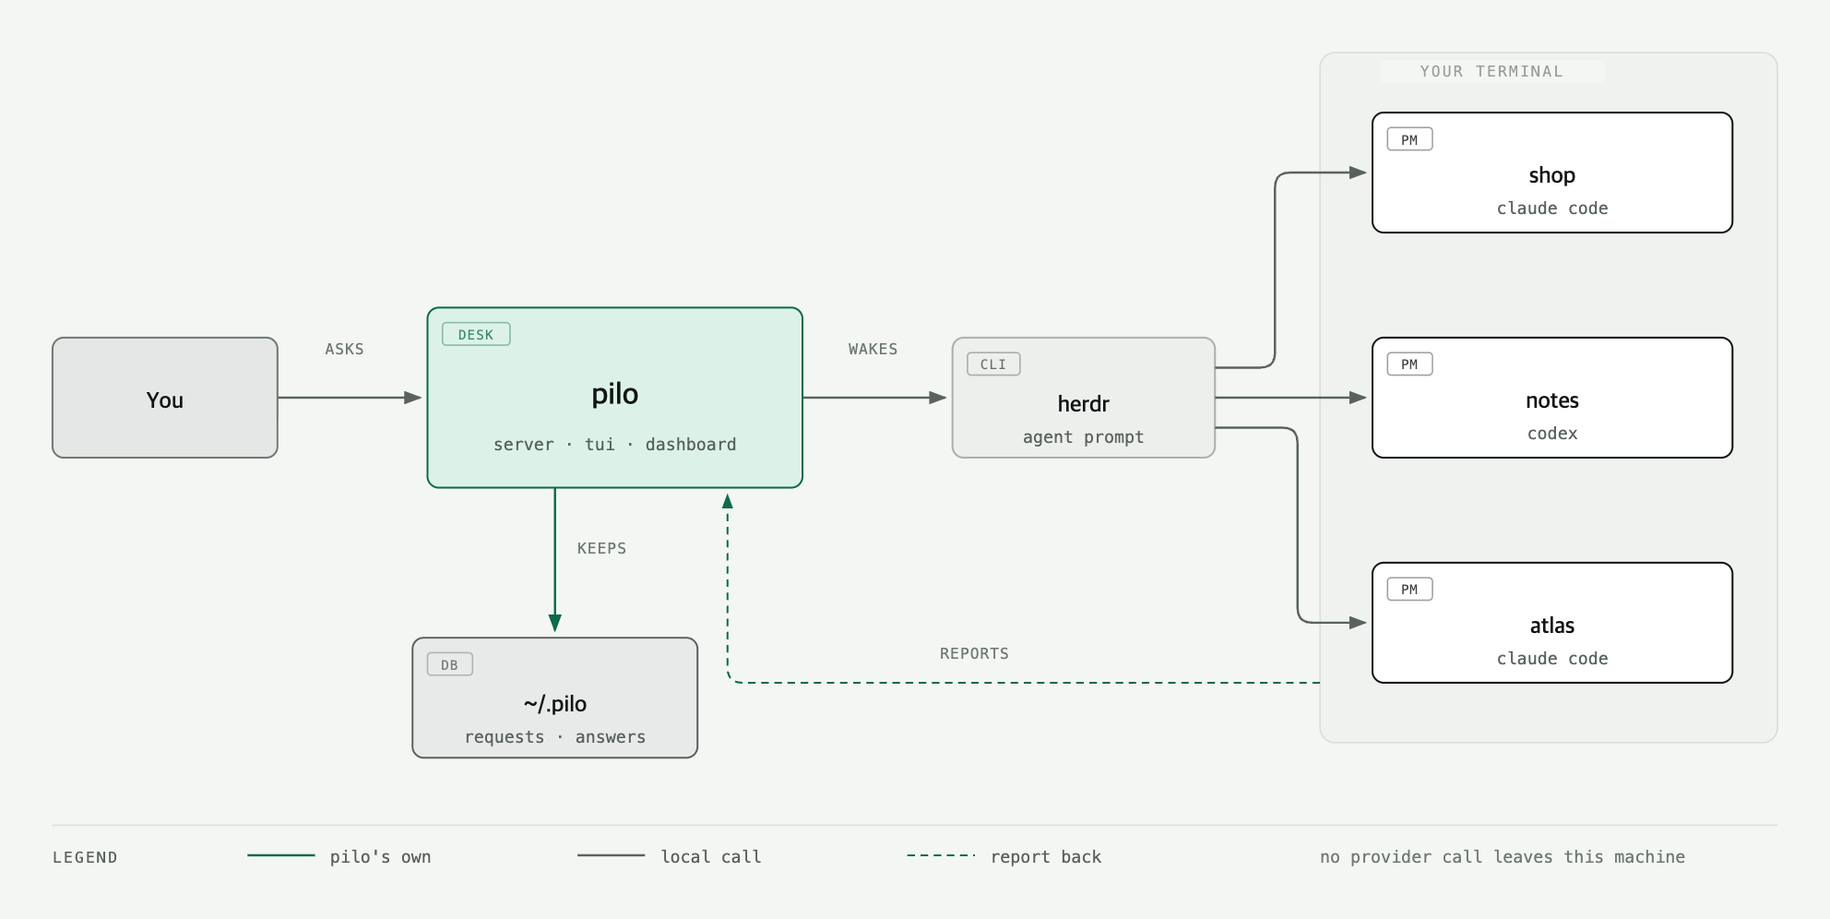
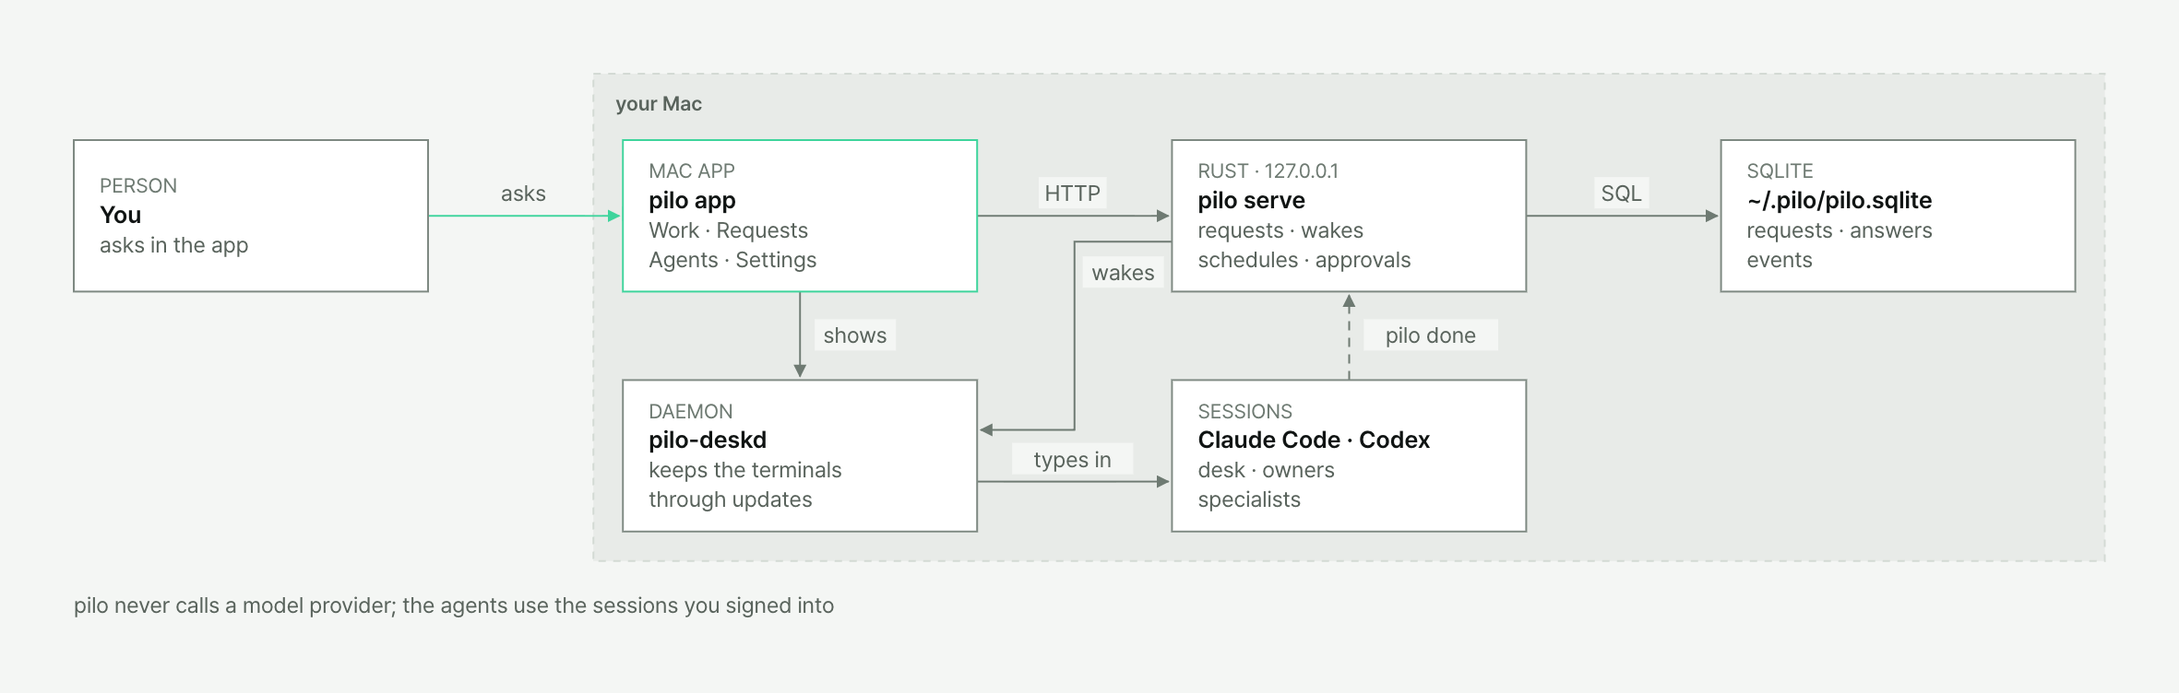
The 0.4.0 architecture and storage diagrams (garamnoh's) on the docs page again; the README and the site's first line say pilo keeps Claude Code and Codex in one Mac app, and where the daemon's sessions list and socket really are (~/Library/Application Support/pilo-desk) (#6268)
Claude-Session: https://claude.ai/code/session_01BkT3E2iNBeyUTNNpawG7c4

diff --git a/site/docs.html b/site/docs.html
@@ -113,10 +113,10 @@ a:hover { color: var(--accent); }
           </div>
         </div>
         <p  style="font-size: 15px; line-height: 1.8; color: var(--text-2); margin: 0px 0px 0px; text-wrap: pretty;"><span class="l-en">Underneath, pilo is one app and one small server, both written in Rust. The agents' terminals (Claude Code, Codex) live in the app. The server keeps requests and answers in a SQLite file, wakes the agent a request is for by typing into its terminal, and answers the agents' pilo commands over a unix socket on your Mac.</span><span class="l-ko">안쪽에서는 앱 하나와 작은 서버 하나가 일해요. 둘 다 Rust 예요. 에이전트 터미널(Claude Code, Codex)은 앱 안에 있어요. 서버는 요청과 답을 SQLite 파일에 두고, 요청 받을 에이전트의 터미널에 글을 쳐서 깨우고, 에이전트의 pilo 명령에 내 Mac 의 유닉스 소켓으로 답해요.</span></p>
-<!-- 0.4.0: diagram to redraw (old one shows herdr / the PGlite lock) <img  class="gn-shot gn-shot-light l-en" width="976" height="490" src="/assets/diagrams/architecture-en-light.png" alt="You ask pilo; pilo keeps the request, wakes the right session in the app, and the owners report back" style="width: 100%; height: auto; margin-top: 8px;"> -->
-<!-- 0.4.0: diagram to redraw (old one shows herdr / the PGlite lock) <img  class="gn-shot gn-shot-light l-ko" width="976" height="490" src="/assets/diagrams/architecture-ko-light.png" alt="내가 pilo 에 말하면 pilo 가 요청을 보관하고 앱 안의 맞는 세션을 깨우며, 담당들이 보고한다" style="width: 100%; height: auto; margin-top: 8px;"> -->
-<!-- 0.4.0: diagram to redraw (old one shows herdr / the PGlite lock) <img  class="gn-shot gn-shot-dark l-en" width="976" height="490" src="/assets/diagrams/architecture-en-dark.png" alt="You ask pilo; pilo keeps the request, wakes the right session in the app, and the owners report back" style="width: 100%; height: auto; margin-top: 8px;"> -->
-<!-- 0.4.0: diagram to redraw (old one shows herdr / the PGlite lock) <img  class="gn-shot gn-shot-dark l-ko" width="976" height="490" src="/assets/diagrams/architecture-ko-dark.png" alt="내가 pilo 에 말하면 pilo 가 요청을 보관하고 앱 안의 맞는 세션을 깨우며, 담당들이 보고한다" style="width: 100%; height: auto; margin-top: 8px;"> -->
+<img  class="gn-shot gn-shot-light l-en" width="1181" height="376" src="/assets/diagrams/architecture-en-light.png" alt="You ask pilo; pilo keeps the request, wakes the right session in the app, and the owners report back" style="width: 100%; height: auto; margin-top: 8px;">
+<img  class="gn-shot gn-shot-light l-ko" width="1181" height="376" src="/assets/diagrams/architecture-ko-light.png" alt="내가 pilo 에 말하면 pilo 가 요청을 보관하고 앱 안의 맞는 세션을 깨우며, 담당들이 보고한다" style="width: 100%; height: auto; margin-top: 8px;">
+<img  class="gn-shot gn-shot-dark l-en" width="1181" height="376" src="/assets/diagrams/architecture-en-dark.png" alt="You ask pilo; pilo keeps the request, wakes the right session in the app, and the owners report back" style="width: 100%; height: auto; margin-top: 8px;">
+<img  class="gn-shot gn-shot-dark l-ko" width="1181" height="376" src="/assets/diagrams/architecture-ko-dark.png" alt="내가 pilo 에 말하면 pilo 가 요청을 보관하고 앱 안의 맞는 세션을 깨우며, 담당들이 보고한다" style="width: 100%; height: auto; margin-top: 8px;">
         <p  class="gn-mono" style="font-size: 11px; color: var(--text-3); margin: 12px 0px 0px;"><span class="l-en">two things share the machine: the pilo app with your agents' terminals, and the pilo server</span><span class="l-ko">한 기계 안에 둘이 같이 있어요: 에이전트 터미널을 품은 pilo 앱, 그리고 pilo 서버</span></p>
       </div>
       <div id="install">
@@ -326,18 +326,18 @@ a:hover { color: var(--accent); }
             <span  style="font-size: 13.5px; line-height: 1.75; color: var(--text-2); flex: 1 1 220px; min-width: 0px;"><span class="l-en">the port the server settled on</span><span class="l-ko">서버가 잡은 포트</span></span>
           </div>
           <div  style="display: flex; gap: 20px; padding: 14px 20px; border-bottom: 1px solid var(--line-soft); align-items: baseline; flex-wrap: wrap;">
-            <span  class="gn-mono" style="font-size: 12.5px; color: var(--text); flex: 0 0 auto; width: 176px;">~/.pilo/desk/</span>
-            <span  style="font-size: 13.5px; line-height: 1.75; color: var(--text-2); flex: 1 1 220px; min-width: 0px;"><span class="l-en">the app's terminal daemon</span><span class="l-ko">앱의 터미널 데몬</span></span>
+            <span  class="gn-mono" style="font-size: 12.5px; color: var(--text); flex: 0 0 auto; width: 176px;">~/.pilo/desk/bin/</span>
+            <span  style="font-size: 13.5px; line-height: 1.75; color: var(--text-2); flex: 1 1 220px; min-width: 0px;"><span class="l-en">the terminal daemon's program; its sessions list and desk.sock are in ~/Library/Application Support/pilo-desk</span><span class="l-ko">터미널 데몬 프로그램. 세션 목록과 desk.sock 은 ~/Library/Application Support/pilo-desk</span></span>
           </div>
           <div  style="display: flex; gap: 20px; padding: 14px 20px; border-bottom: 1px solid var(--line-soft); align-items: baseline; flex-wrap: wrap;">
             <span  class="gn-mono" style="font-size: 12.5px; color: var(--text); flex: 0 0 auto; width: 176px;">127.0.0.1</span>
             <span  style="font-size: 13.5px; line-height: 1.75; color: var(--text-2); flex: 1 1 220px; min-width: 0px;"><span class="l-en">the only socket that listens. No account.</span><span class="l-ko">듣는 소켓은 이것 하나예요. 계정 없어요.</span></span>
           </div>
         </div>
-<!-- 0.4.0: diagram to redraw (old one shows herdr / the PGlite lock) <img  class="gn-shot gn-shot-light l-en" width="972" height="483" src="/assets/diagrams/storage-en-light.png" alt="The pilo home directory holding settings, the database, logs, the port file and the lock" style="width: 100%; height: auto; margin-top: 8px;"> -->
-<!-- 0.4.0: diagram to redraw (old one shows herdr / the PGlite lock) <img  class="gn-shot gn-shot-light l-ko" width="972" height="483" src="/assets/diagrams/storage-ko-light.png" alt="~/.pilo 안에 설정·데이터베이스·로그·포트·잠금이 들어 있다" style="width: 100%; height: auto; margin-top: 8px;"> -->
-<!-- 0.4.0: diagram to redraw (old one shows herdr / the PGlite lock) <img  class="gn-shot gn-shot-dark l-en" width="972" height="483" src="/assets/diagrams/storage-en-dark.png" alt="The pilo home directory holding settings, the database, logs, the port file and the lock" style="width: 100%; height: auto; margin-top: 8px;"> -->
-<!-- 0.4.0: diagram to redraw (old one shows herdr / the PGlite lock) <img  class="gn-shot gn-shot-dark l-ko" width="972" height="483" src="/assets/diagrams/storage-ko-dark.png" alt="~/.pilo 안에 설정·데이터베이스·로그·포트·잠금이 들어 있다" style="width: 100%; height: auto; margin-top: 8px;"> -->
+<img  class="gn-shot gn-shot-light l-en" width="1272" height="475" src="/assets/diagrams/storage-en-light.png" alt="~/.pilo holds the SQLite database, the port and socket files, logs, the server binary, the daemon and the usage id; the app keeps its sessions list and desk.sock in ~/Library/Application Support/pilo-desk" style="width: 100%; height: auto; margin-top: 8px;">
+<img  class="gn-shot gn-shot-light l-ko" width="1272" height="475" src="/assets/diagrams/storage-ko-light.png" alt="~/.pilo 에 SQLite DB · 포트 · 소켓 · 로그 · 서버 · 데몬 · 통계 id 가, ~/Library/Application Support/pilo-desk 에 세션 목록과 desk.sock 이 들어 있다" style="width: 100%; height: auto; margin-top: 8px;">
+<img  class="gn-shot gn-shot-dark l-en" width="1272" height="475" src="/assets/diagrams/storage-en-dark.png" alt="~/.pilo holds the SQLite database, the port and socket files, logs, the server binary, the daemon and the usage id; the app keeps its sessions list and desk.sock in ~/Library/Application Support/pilo-desk" style="width: 100%; height: auto; margin-top: 8px;">
+<img  class="gn-shot gn-shot-dark l-ko" width="1272" height="475" src="/assets/diagrams/storage-ko-dark.png" alt="~/.pilo 에 SQLite DB · 포트 · 소켓 · 로그 · 서버 · 데몬 · 통계 id 가, ~/Library/Application Support/pilo-desk 에 세션 목록과 desk.sock 이 들어 있다" style="width: 100%; height: auto; margin-top: 8px;">
         <p  class="gn-mono" style="font-size: 11px; color: var(--text-3); margin: 12px 0px 0px;"><span class="l-en">one folder, five things in it</span><span class="l-ko">폴더 하나, 그 안에 다섯</span></p>
         <h2  style="font-size: 22px; letter-spacing: -0.01em; margin: 36px 0px 14px;"><span class="l-en">What it sends</span><span class="l-ko">밖으로 보내는 것</span></h2>
         <p  style="font-size: 15px; line-height: 1.8; color: var(--text-2); margin: 0px 0px 22px; text-wrap: pretty;"><span class="l-en">Two things leave your Mac, and both can be switched off.</span><span class="l-ko">두 가지가 Mac 밖으로 나가고, 둘 다 끌 수 있어요.</span></p>

diff --git a/site/en/docs.html b/site/en/docs.html
@@ -113,10 +113,10 @@ a:hover { color: var(--accent); }
           </div>
         </div>
         <p  style="font-size: 15px; line-height: 1.8; color: var(--text-2); margin: 0px 0px 0px; text-wrap: pretty;"><span class="l-en">Underneath, pilo is one app and one small server, both written in Rust. The agents' terminals (Claude Code, Codex) live in the app. The server keeps requests and answers in a SQLite file, wakes the agent a request is for by typing into its terminal, and answers the agents' pilo commands over a unix socket on your Mac.</span><span class="l-ko">안쪽에서는 앱 하나와 작은 서버 하나가 일해요. 둘 다 Rust 예요. 에이전트 터미널(Claude Code, Codex)은 앱 안에 있어요. 서버는 요청과 답을 SQLite 파일에 두고, 요청 받을 에이전트의 터미널에 글을 쳐서 깨우고, 에이전트의 pilo 명령에 내 Mac 의 유닉스 소켓으로 답해요.</span></p>
-<!-- 0.4.0: diagram to redraw (old one shows herdr / the PGlite lock) <img  class="gn-shot gn-shot-light l-en" width="976" height="490" src="/assets/diagrams/architecture-en-light.png" alt="You ask pilo; pilo keeps the request, wakes the right session in the app, and the owners report back" style="width: 100%; height: auto; margin-top: 8px;"> -->
-<!-- 0.4.0: diagram to redraw (old one shows herdr / the PGlite lock) <img  class="gn-shot gn-shot-light l-ko" width="976" height="490" src="/assets/diagrams/architecture-ko-light.png" alt="내가 pilo 에 말하면 pilo 가 요청을 보관하고 앱 안의 맞는 세션을 깨우며, 담당들이 보고한다" style="width: 100%; height: auto; margin-top: 8px;"> -->
-<!-- 0.4.0: diagram to redraw (old one shows herdr / the PGlite lock) <img  class="gn-shot gn-shot-dark l-en" width="976" height="490" src="/assets/diagrams/architecture-en-dark.png" alt="You ask pilo; pilo keeps the request, wakes the right session in the app, and the owners report back" style="width: 100%; height: auto; margin-top: 8px;"> -->
-<!-- 0.4.0: diagram to redraw (old one shows herdr / the PGlite lock) <img  class="gn-shot gn-shot-dark l-ko" width="976" height="490" src="/assets/diagrams/architecture-ko-dark.png" alt="내가 pilo 에 말하면 pilo 가 요청을 보관하고 앱 안의 맞는 세션을 깨우며, 담당들이 보고한다" style="width: 100%; height: auto; margin-top: 8px;"> -->
+<img  class="gn-shot gn-shot-light l-en" width="1181" height="376" src="/assets/diagrams/architecture-en-light.png" alt="You ask pilo; pilo keeps the request, wakes the right session in the app, and the owners report back" style="width: 100%; height: auto; margin-top: 8px;">
+<img  class="gn-shot gn-shot-light l-ko" width="1181" height="376" src="/assets/diagrams/architecture-ko-light.png" alt="내가 pilo 에 말하면 pilo 가 요청을 보관하고 앱 안의 맞는 세션을 깨우며, 담당들이 보고한다" style="width: 100%; height: auto; margin-top: 8px;">
+<img  class="gn-shot gn-shot-dark l-en" width="1181" height="376" src="/assets/diagrams/architecture-en-dark.png" alt="You ask pilo; pilo keeps the request, wakes the right session in the app, and the owners report back" style="width: 100%; height: auto; margin-top: 8px;">
+<img  class="gn-shot gn-shot-dark l-ko" width="1181" height="376" src="/assets/diagrams/architecture-ko-dark.png" alt="내가 pilo 에 말하면 pilo 가 요청을 보관하고 앱 안의 맞는 세션을 깨우며, 담당들이 보고한다" style="width: 100%; height: auto; margin-top: 8px;">
         <p  class="gn-mono" style="font-size: 11px; color: var(--text-3); margin: 12px 0px 0px;"><span class="l-en">two things share the machine: the pilo app with your agents' terminals, and the pilo server</span><span class="l-ko">한 기계 안에 둘이 같이 있어요: 에이전트 터미널을 품은 pilo 앱, 그리고 pilo 서버</span></p>
       </div>
       <div id="install">
@@ -326,18 +326,18 @@ a:hover { color: var(--accent); }
             <span  style="font-size: 13.5px; line-height: 1.75; color: var(--text-2); flex: 1 1 220px; min-width: 0px;"><span class="l-en">the port the server settled on</span><span class="l-ko">서버가 잡은 포트</span></span>
           </div>
           <div  style="display: flex; gap: 20px; padding: 14px 20px; border-bottom: 1px solid var(--line-soft); align-items: baseline; flex-wrap: wrap;">
-            <span  class="gn-mono" style="font-size: 12.5px; color: var(--text); flex: 0 0 auto; width: 176px;">~/.pilo/desk/</span>
-            <span  style="font-size: 13.5px; line-height: 1.75; color: var(--text-2); flex: 1 1 220px; min-width: 0px;"><span class="l-en">the app's terminal daemon</span><span class="l-ko">앱의 터미널 데몬</span></span>
+            <span  class="gn-mono" style="font-size: 12.5px; color: var(--text); flex: 0 0 auto; width: 176px;">~/.pilo/desk/bin/</span>
+            <span  style="font-size: 13.5px; line-height: 1.75; color: var(--text-2); flex: 1 1 220px; min-width: 0px;"><span class="l-en">the terminal daemon's program; its sessions list and desk.sock are in ~/Library/Application Support/pilo-desk</span><span class="l-ko">터미널 데몬 프로그램. 세션 목록과 desk.sock 은 ~/Library/Application Support/pilo-desk</span></span>
           </div>
           <div  style="display: flex; gap: 20px; padding: 14px 20px; border-bottom: 1px solid var(--line-soft); align-items: baseline; flex-wrap: wrap;">
             <span  class="gn-mono" style="font-size: 12.5px; color: var(--text); flex: 0 0 auto; width: 176px;">127.0.0.1</span>
             <span  style="font-size: 13.5px; line-height: 1.75; color: var(--text-2); flex: 1 1 220px; min-width: 0px;"><span class="l-en">the only socket that listens. No account.</span><span class="l-ko">듣는 소켓은 이것 하나예요. 계정 없어요.</span></span>
           </div>
         </div>
-<!-- 0.4.0: diagram to redraw (old one shows herdr / the PGlite lock) <img  class="gn-shot gn-shot-light l-en" width="972" height="483" src="/assets/diagrams/storage-en-light.png" alt="The pilo home directory holding settings, the database, logs, the port file and the lock" style="width: 100%; height: auto; margin-top: 8px;"> -->
-<!-- 0.4.0: diagram to redraw (old one shows herdr / the PGlite lock) <img  class="gn-shot gn-shot-light l-ko" width="972" height="483" src="/assets/diagrams/storage-ko-light.png" alt="~/.pilo 안에 설정·데이터베이스·로그·포트·잠금이 들어 있다" style="width: 100%; height: auto; margin-top: 8px;"> -->
-<!-- 0.4.0: diagram to redraw (old one shows herdr / the PGlite lock) <img  class="gn-shot gn-shot-dark l-en" width="972" height="483" src="/assets/diagrams/storage-en-dark.png" alt="The pilo home directory holding settings, the database, logs, the port file and the lock" style="width: 100%; height: auto; margin-top: 8px;"> -->
-<!-- 0.4.0: diagram to redraw (old one shows herdr / the PGlite lock) <img  class="gn-shot gn-shot-dark l-ko" width="972" height="483" src="/assets/diagrams/storage-ko-dark.png" alt="~/.pilo 안에 설정·데이터베이스·로그·포트·잠금이 들어 있다" style="width: 100%; height: auto; margin-top: 8px;"> -->
+<img  class="gn-shot gn-shot-light l-en" width="1272" height="475" src="/assets/diagrams/storage-en-light.png" alt="~/.pilo holds the SQLite database, the port and socket files, logs, the server binary, the daemon and the usage id; the app keeps its sessions list and desk.sock in ~/Library/Application Support/pilo-desk" style="width: 100%; height: auto; margin-top: 8px;">
+<img  class="gn-shot gn-shot-light l-ko" width="1272" height="475" src="/assets/diagrams/storage-ko-light.png" alt="~/.pilo 에 SQLite DB · 포트 · 소켓 · 로그 · 서버 · 데몬 · 통계 id 가, ~/Library/Application Support/pilo-desk 에 세션 목록과 desk.sock 이 들어 있다" style="width: 100%; height: auto; margin-top: 8px;">
+<img  class="gn-shot gn-shot-dark l-en" width="1272" height="475" src="/assets/diagrams/storage-en-dark.png" alt="~/.pilo holds the SQLite database, the port and socket files, logs, the server binary, the daemon and the usage id; the app keeps its sessions list and desk.sock in ~/Library/Application Support/pilo-desk" style="width: 100%; height: auto; margin-top: 8px;">
+<img  class="gn-shot gn-shot-dark l-ko" width="1272" height="475" src="/assets/diagrams/storage-ko-dark.png" alt="~/.pilo 에 SQLite DB · 포트 · 소켓 · 로그 · 서버 · 데몬 · 통계 id 가, ~/Library/Application Support/pilo-desk 에 세션 목록과 desk.sock 이 들어 있다" style="width: 100%; height: auto; margin-top: 8px;">
         <p  class="gn-mono" style="font-size: 11px; color: var(--text-3); margin: 12px 0px 0px;"><span class="l-en">one folder, five things in it</span><span class="l-ko">폴더 하나, 그 안에 다섯</span></p>
         <h2  style="font-size: 22px; letter-spacing: -0.01em; margin: 36px 0px 14px;"><span class="l-en">What it sends</span><span class="l-ko">밖으로 보내는 것</span></h2>
         <p  style="font-size: 15px; line-height: 1.8; color: var(--text-2); margin: 0px 0px 22px; text-wrap: pretty;"><span class="l-en">Two things leave your Mac, and both can be switched off.</span><span class="l-ko">두 가지가 Mac 밖으로 나가고, 둘 다 끌 수 있어요.</span></p>

diff --git a/site/en/index.html b/site/en/index.html
@@ -66,7 +66,7 @@ a:hover { color: var(--accent); }
       <h1  style="font-size: clamp(38px, 6.4vw, 66px); line-height: 1.06; letter-spacing: -0.03em; margin: 22px 0px 0px; max-width: 17ch; white-space: pre-line;"><span class="l-en">Many agents,
 one place to talk</span><span class="l-ko">여러 에이전트,
 한 곳에서 말해요</span></h1>
-      <p class="gn-lead"  style="font-size: 15px; line-height: 1.78; color: var(--text-2); margin: 24px 0px 0px; text-wrap: pretty;"><span class="l-en">pilo does not start agents. It gathers the ones already open in your terminal, so you say it once and the owners split the work.</span><span class="l-ko">pilo는 에이전트를 새로 만들지 않아요. 터미널에 이미 띄워둔 것들을 한 자리에 모아, 한 번만 말하면 담당들이 나눠서 해요.</span></p>
+      <p class="gn-lead"  style="font-size: 15px; line-height: 1.78; color: var(--text-2); margin: 24px 0px 0px; text-wrap: pretty;"><span class="l-en">pilo keeps your coding agents, Claude Code and Codex, in one Mac app, so you say it once and the owners split the work.</span><span class="l-ko">pilo는 Claude Code · Codex 에이전트를 맥 앱 하나에 모아요. 한 번만 말하면 담당들이 나눠서 해요.</span></p>
       <div  style="display: flex; align-items: center; gap: 16px; flex-wrap: wrap; margin-top: 32px;">
         <a  href="#install" style="height: 44px; background: var(--accent); color: var(--on-accent); display: flex; align-items: center; padding: 0px 20px; font-size: 15px; font-weight: 500;"><span class="l-en">How to install</span><span class="l-ko">설치 방법 보기</span></a>
         <a  href="#how" style="height: 44px; border: 1px solid var(--line); background: var(--surface); color: var(--text); display: flex; align-items: center; padding: 0px 20px; font-size: 15px;"><span class="l-en">How it works</span><span class="l-ko">어떻게 동작하나요</span></a>

diff --git a/site/index.html b/site/index.html
@@ -66,7 +66,7 @@ a:hover { color: var(--accent); }
       <h1  style="font-size: clamp(38px, 6.4vw, 66px); line-height: 1.06; letter-spacing: -0.03em; margin: 22px 0px 0px; max-width: 17ch; white-space: pre-line;"><span class="l-en">Many agents,
 one place to talk</span><span class="l-ko">여러 에이전트,
 한 곳에서 말해요</span></h1>
-      <p class="gn-lead"  style="font-size: 15px; line-height: 1.78; color: var(--text-2); margin: 24px 0px 0px; text-wrap: pretty;"><span class="l-en">pilo does not start agents. It gathers the ones already open in your terminal, so you say it once and the owners split the work.</span><span class="l-ko">pilo는 에이전트를 새로 만들지 않아요. 터미널에 이미 띄워둔 것들을 한 자리에 모아, 한 번만 말하면 담당들이 나눠서 해요.</span></p>
+      <p class="gn-lead"  style="font-size: 15px; line-height: 1.78; color: var(--text-2); margin: 24px 0px 0px; text-wrap: pretty;"><span class="l-en">pilo keeps your coding agents, Claude Code and Codex, in one Mac app, so you say it once and the owners split the work.</span><span class="l-ko">pilo는 Claude Code · Codex 에이전트를 맥 앱 하나에 모아요. 한 번만 말하면 담당들이 나눠서 해요.</span></p>
       <div  style="display: flex; align-items: center; gap: 16px; flex-wrap: wrap; margin-top: 32px;">
         <a  href="#install" style="height: 44px; background: var(--accent); color: var(--on-accent); display: flex; align-items: center; padding: 0px 20px; font-size: 15px; font-weight: 500;"><span class="l-en">How to install</span><span class="l-ko">설치 방법 보기</span></a>
         <a  href="#how" style="height: 44px; border: 1px solid var(--line); background: var(--surface); color: var(--text); display: flex; align-items: center; padding: 0px 20px; font-size: 15px;"><span class="l-en">How it works</span><span class="l-ko">어떻게 동작하나요</span></a>

diff --git a/README.md b/README.md
@@ -2,9 +2,9 @@
 
 **Many agents, one place to talk.**
 
-pilo does not start agents. It gathers the ones already open in your terminal, so
-you say a thing once and the owners split the work between them. macOS, local
-only, no account.
+pilo keeps your coding agents, Claude Code and Codex, in one Mac app, so you say a
+thing once and the owners split the work between them. macOS, local only, no
+account.
 
 <picture>
   <source media="(prefers-color-scheme: dark)" srcset="docs/screenshots/cycle-dark.gif">
@@ -135,9 +135,11 @@ reported, what failed, and the answer that came back — on **Requests**, and
 
 ## What it keeps, and where
 
-Everything lives under `~/.pilo/`: `pilo.sqlite` (requests, answers, events),
-`port`, `logs/`, and the app's terminal daemon under `desk/`. The only socket that
-listens is `127.0.0.1`.
+Everything pilo keeps lives under `~/.pilo/`: `pilo.sqlite` (requests, answers,
+events), `port`, `socket`, `logs/`, the server in `bin/` and the terminal daemon's
+program in `desk/bin/`. The app keeps its sessions list and the daemon's socket
+(`desk.sock`) in `~/Library/Application Support/pilo-desk/`. The only port that
+listens is on `127.0.0.1`.
 
 ## What it sends
 
